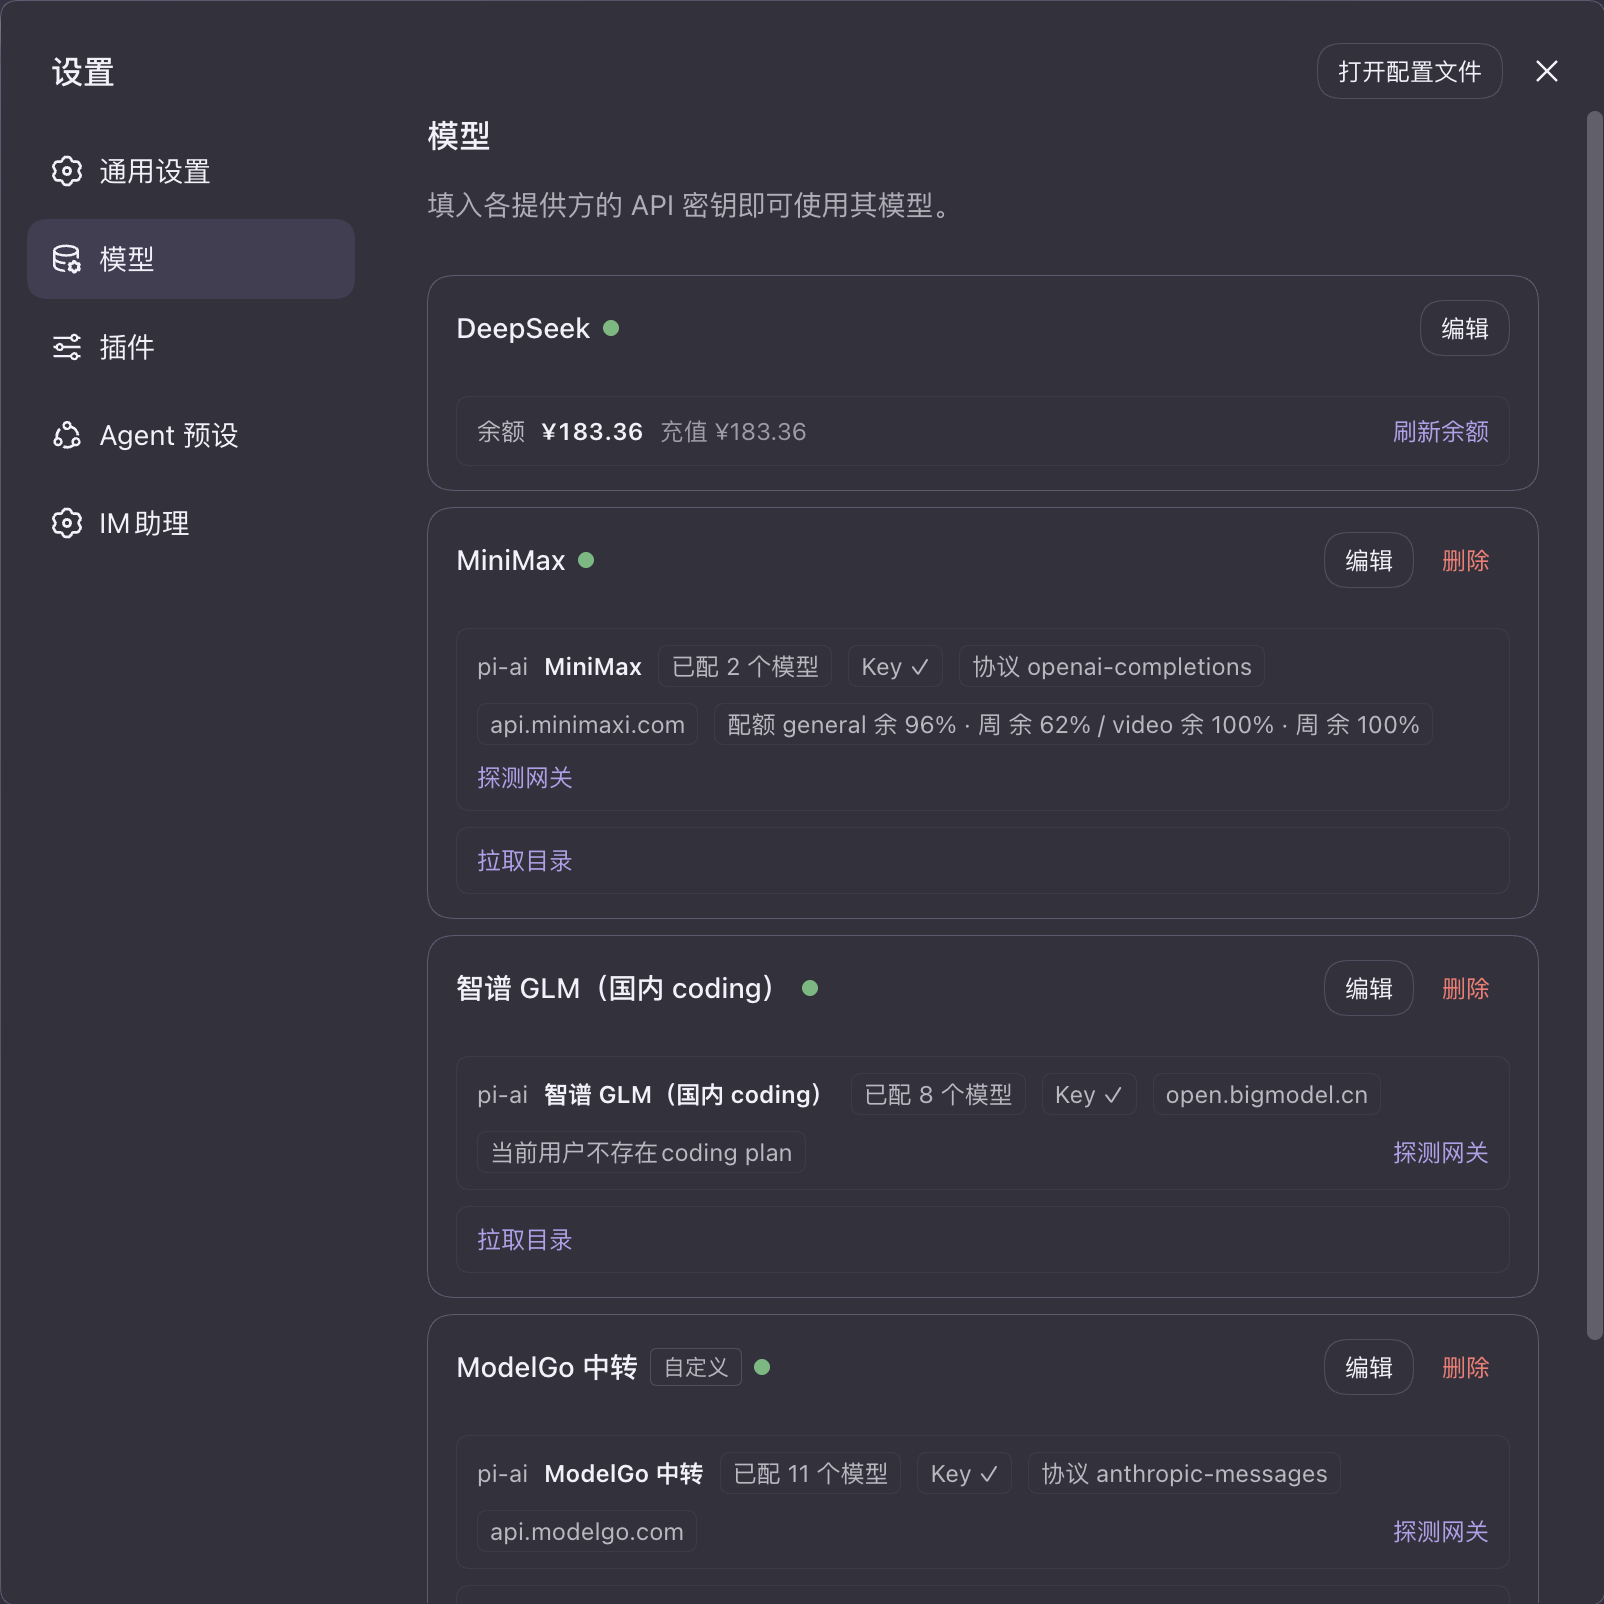
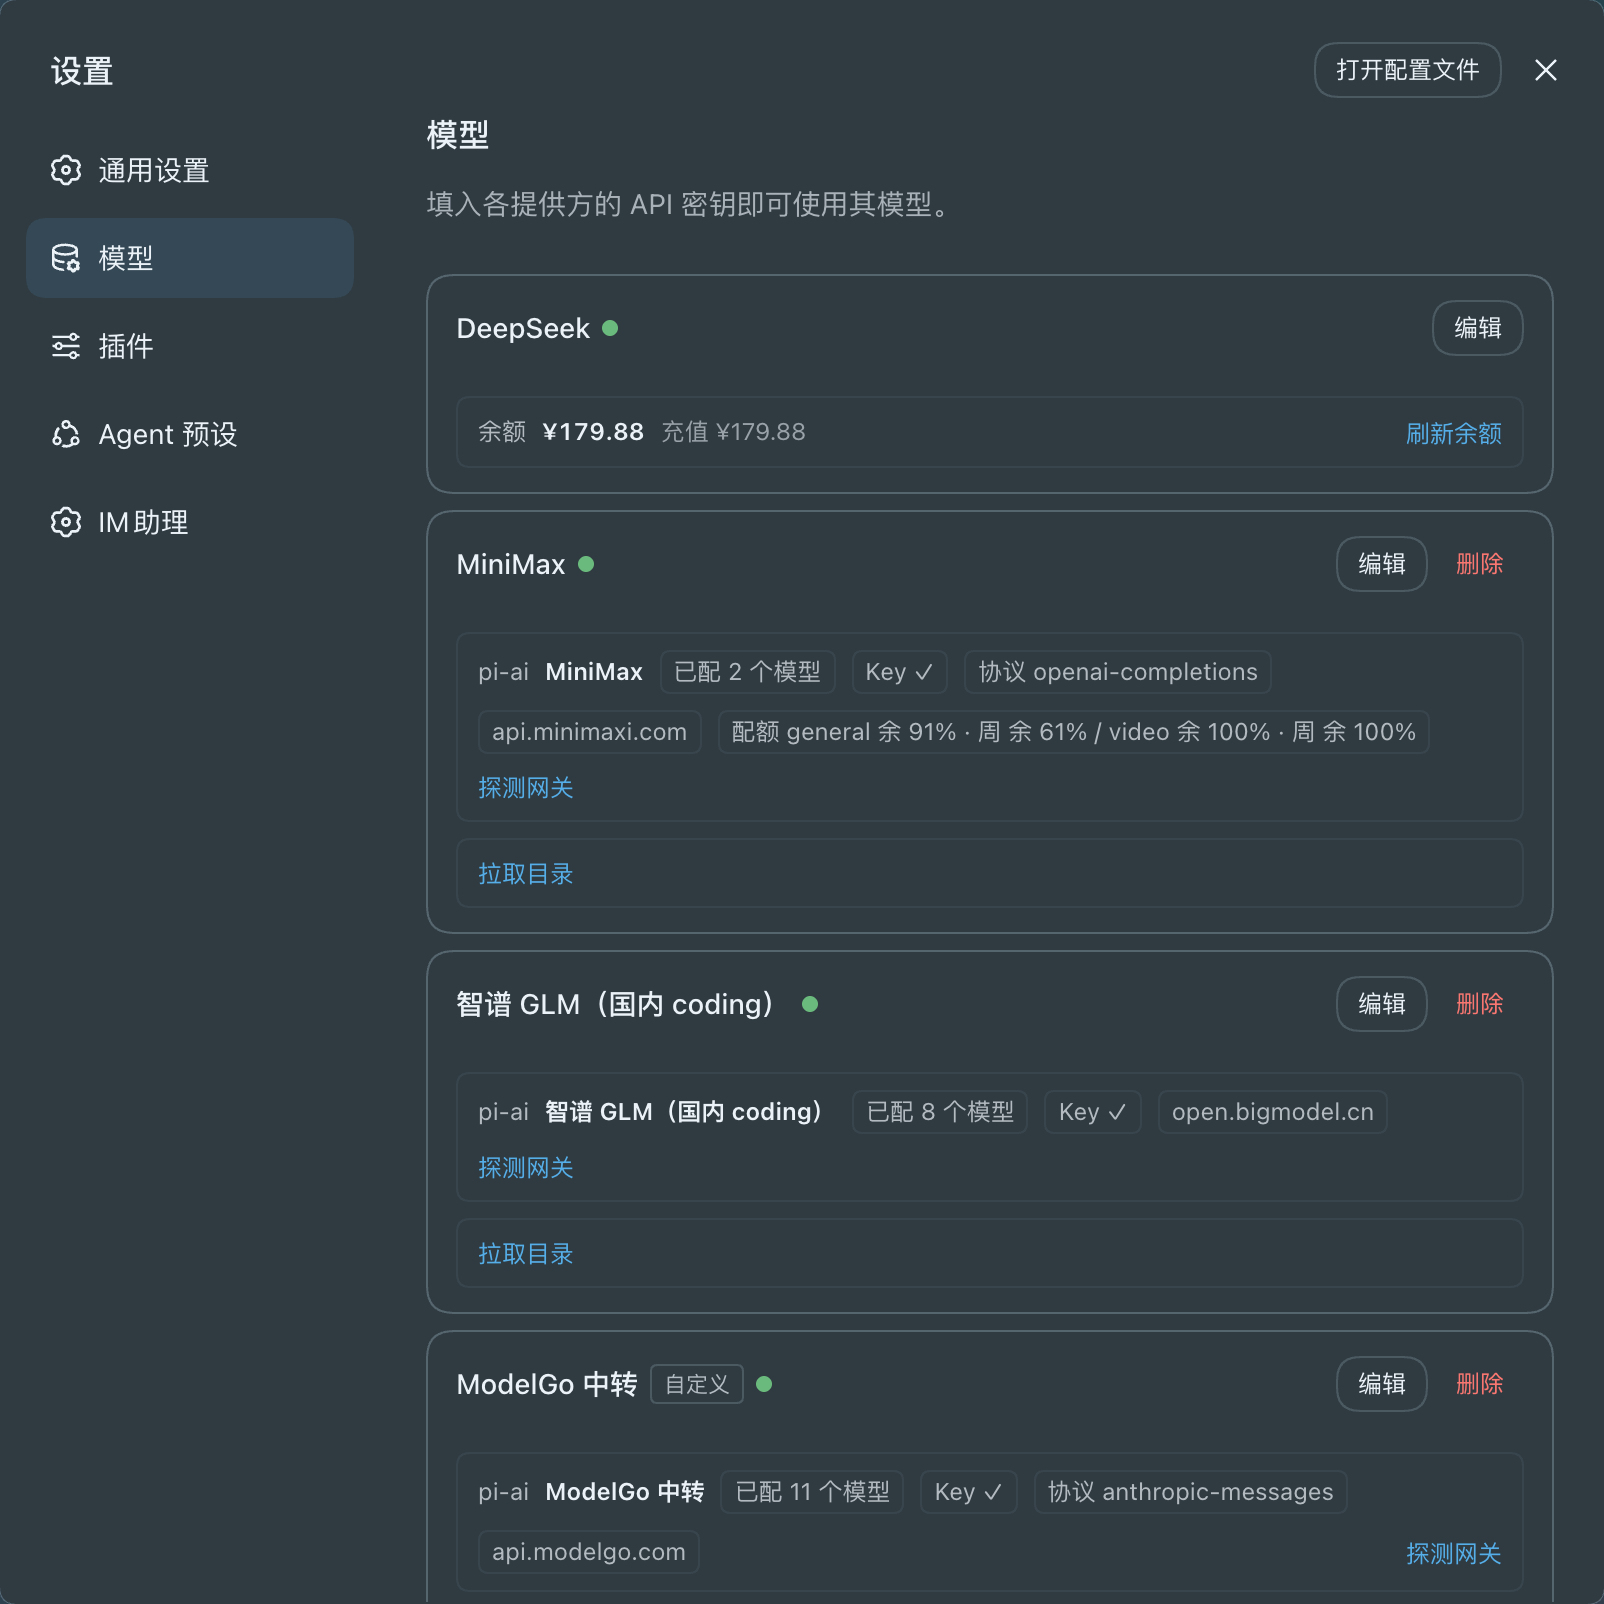
docs(images): pi-ai 展示图重拍于 v0.5.2
上一张是 v0.5.1 拍的，智谱那行还印着「当前用户不存在 coding plan」——
正是这一版删掉的东西。展示图停在被修掉的状态上，比没有图更糟。

顺手把拍图这条路跑通了：headless Chromium 直接开设置→模型，按 dialog
元素截图（不截整页），所以天然没有侧栏、不需要额外脱敏。

Agent: cli:claude-code
Model: claude-opus-5

diff --git a/README.md b/README.md
@@ -60,7 +60,7 @@ DSH 自己已经具备全部机制，缺的只是"官方适配器没去用它们
 - **modelgo 专属**：**拉取目录**列出网关在售模型（实测 71 个，手填仅 11 个），**复制全部 id** 后可直接粘贴整理
 - zai-coding-cn 这类没写 baseURL 的 provider 显示"无法探测"提示，模型仍走手填
 
-![pi-ai 行：协议、接入地址、已配模型数、余额/配额，以及探测与目录拉取](https://img.webkubor.online/oss/dsh-llm-hub/v051/models-piai-cards.png)
+![pi-ai 行：协议、接入地址、已配模型数、余额/配额，以及探测与目录拉取](https://img.webkubor.online/oss/dsh-llm-hub/v052/models-piai-cards.png)
 
 ![DeepSeek 卡片上的余额行](https://img.webkubor.online/oss/dsh-llm-hub/v051/models-deepseek-balance.png)
 
